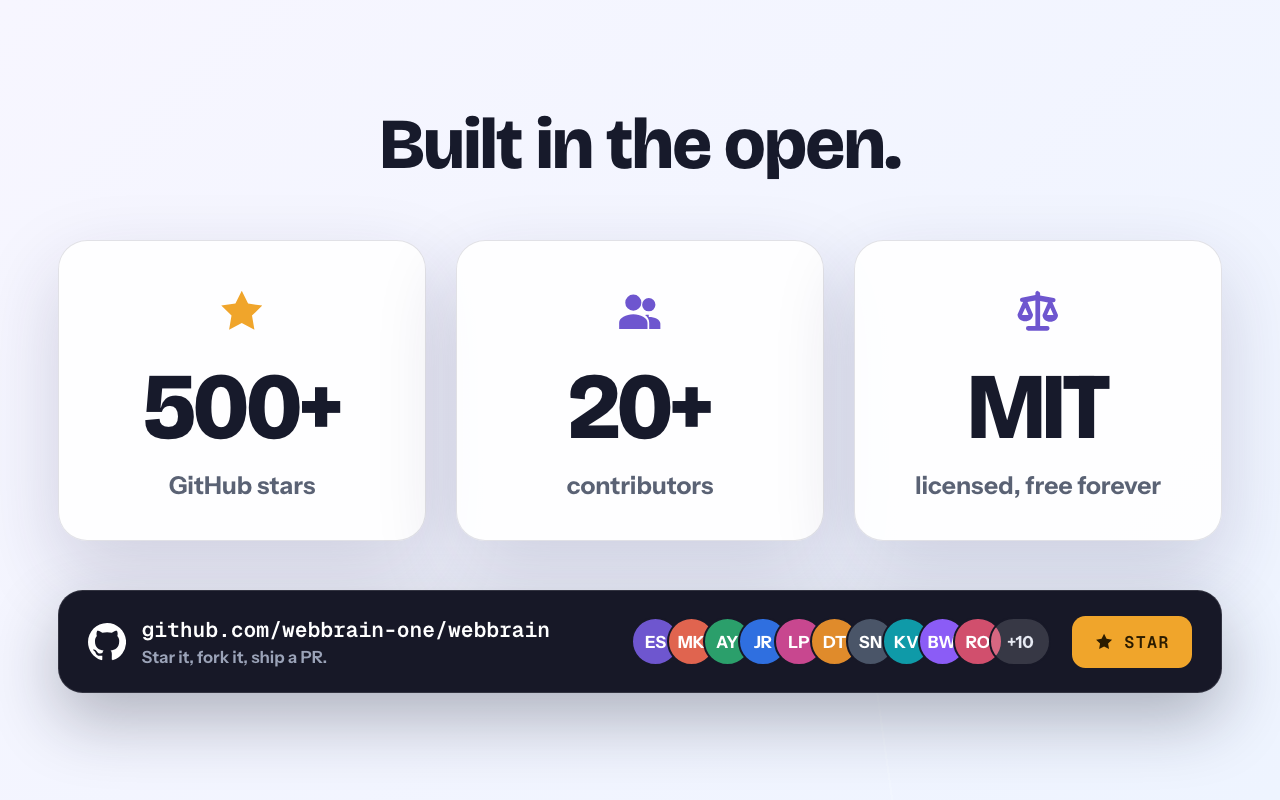
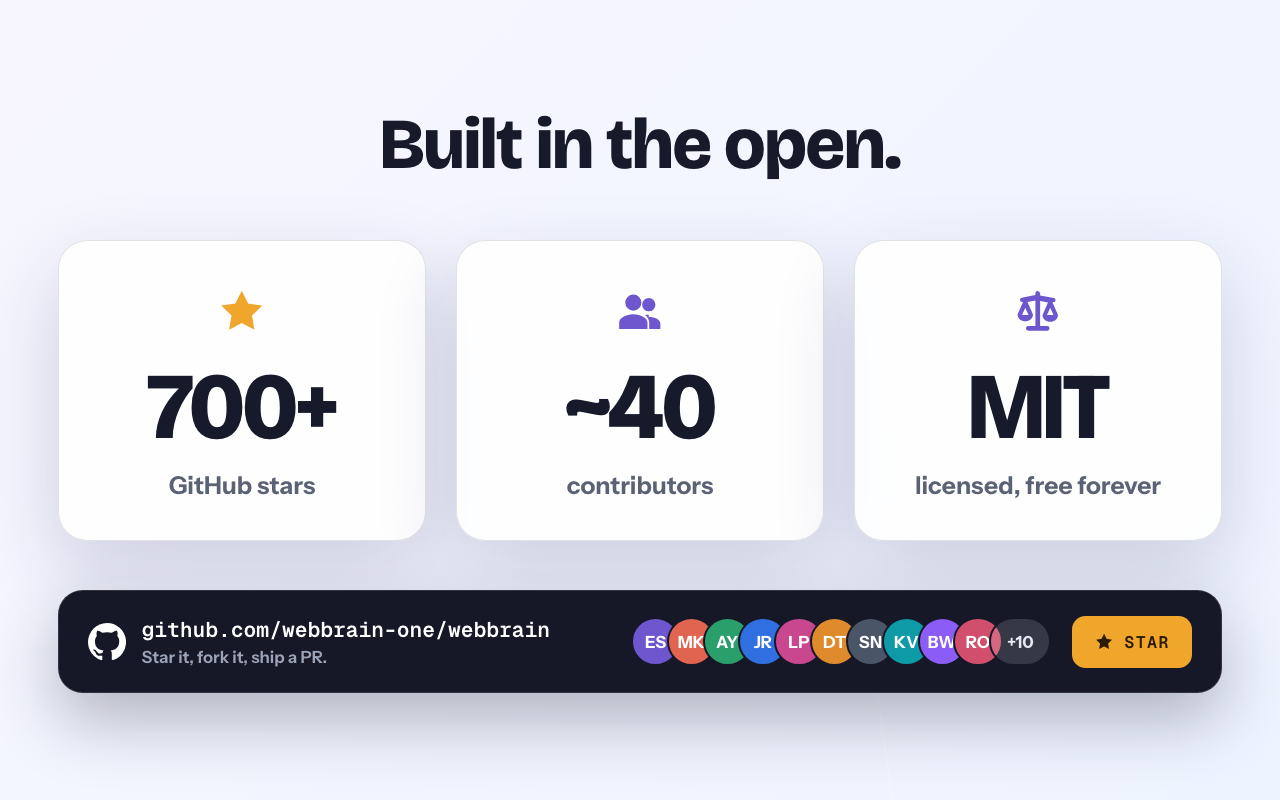
updated numbers

Changed region(s): [[0.0938, 0.4688, 0.2812, 0.5625], [0.4375, 0.4688, 0.5625, 0.5625]]

diff --git a/assets/webstore-explainer-2026-5/README.md b/assets/webstore-explainer-2026-5/README.md
@@ -40,7 +40,7 @@ Files (1280×800):
 - 04-any-llm.png: Model picker, cropped to the provider dropdown
 - 05-plan-before-act.png: Plan review with Approve/Adjust before actions run
 - 06-launch-offer.png: WebBrain Cloud $5/mo (reg. $8), Save 35%
-- 07-social-proof.png: 500+ GitHub stars, 20+ contributors, MIT — repo bar with contributor avatars
+- 07-social-proof.png: 700+ GitHub stars, ~40 contributors, MIT — repo bar with contributor avatars
 
 Light-background alternates of the two dark slides (originals kept, use whichever fits the gallery):
 - 01-hero-light.png
@@ -50,7 +50,7 @@ Both come from the same `hero(light)` / `planScene(light)` functions, so edits a
 dark and light together. In the light plan card the panel goes white and the accent green
 darkens for contrast against white button text.
 
-Star/contributor counts are hardcoded in `proofScene()`; bump them there when they go stale (544 stars at last render, 2026-07-29). The avatar initials are decorative, not real contributor handles.
+Star/contributor counts are hardcoded in `proofScene()`; bump them there when they go stale. The avatar initials are decorative, not real contributor handles.
 
 Slide 07 is appended after the offer to keep the existing filenames stable. If proof-then-price reads better, swap the last two entries in the `scenes` array and rename the two PNGs.
 
